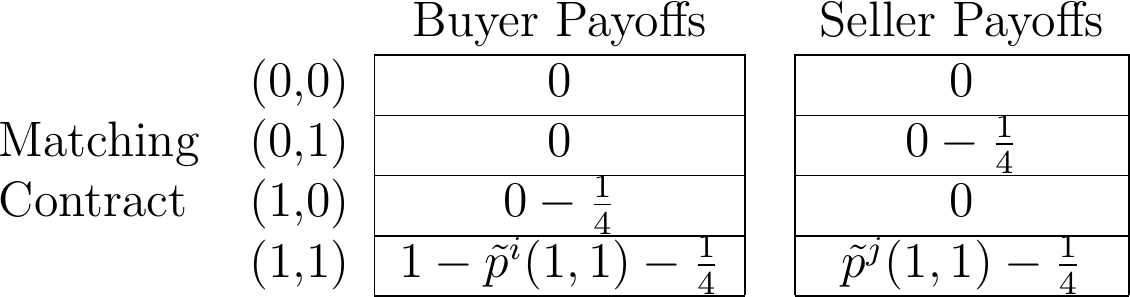
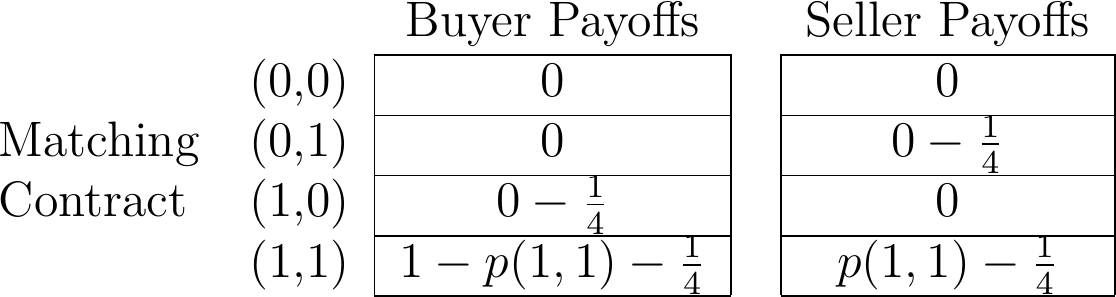
image

diff --git a/docs/slides/OleMiss2019.html b/docs/slides/OleMiss2019.html
@@ -302,28 +302,13 @@ Uniqueness Proof
 
 - With trembling hand, each `\(b\)` and `\(s\)` are played `\(\Rightarrow\)` `\(\tilde{p}^i(b,s) = \tilde{p}^j(b,s) = p(b,s)\)`
 
---
 
-- If `\(p(1,1)\)` is low `\((&lt; \frac{3}{4})\)`, no buyers want to choose `\(b=0\)` 
-  - Instead, choose `\(b=1\)` as much as possible: `\(1 - \epsilon^i\)`
-  - Drives `\(p(1,1)\)` up
+- For simplicity, fix price at zero for all besides markets besides `\((1,1)\)`
 
 
 ---
-Example Payoffs
-=====================================
-
-.center[![](https://briancalbrecht.github.io/docs/slides/images/jmp/tikz_G.png)]
-
---
-- Prices and conjectures are endogenous
-
-- Rational conjectures: if a match `\((b,s)\)` is chosen, `\(\tilde{p}^i (b,s) = \tilde{p}^j (b,s)= p(b,s)\)`
-
-- Equilibrium does not require optimization or correct conjectures "off-path" (like Nash)
-
-???
-We need to find conjectures and prices
+background-image: url(https://briancalbrecht.github.io/docs/slides/images/jmp/tikz_H.png)
+background-size: contain
 
 ---
 Uniqueness Proof
@@ -331,7 +316,6 @@ Uniqueness Proof
 
 - With trembling hand, each `\(b\)` and `\(s\)` are played `\(\Rightarrow\)` `\(\tilde{p}^i(b,s) = \tilde{p}^j(b,s) = p(b,s)\)`
 
---
 
 - If `\(p(1,1)\)` is low `\((&lt; \frac{3}{4})\)`, no buyers want to choose `\(b=0\)` 
   - Instead, choose `\(b=1\)` as much as possible: `\(1 - \epsilon^i\)`

diff --git a/docs/slides/tikz_charts/jmp.tex b/docs/slides/tikz_charts/jmp.tex
@@ -301,7 +301,7 @@ $ $
 		& \multicolumn{1}{c|}{(0,0)} & \multicolumn{1}{c|}{$ 0$} & \multicolumn{1}{c|}{} & \multicolumn{1}{c|}{$ 0$} \\ \cline{3-3} \cline{5-5} 
 		Matching & \multicolumn{1}{c|}{(0,1)} & \multicolumn{1}{c|}{$0$} & \multicolumn{1}{c|}{} & \multicolumn{1}{c|}{$0 -\frac{1}{4}$}  \\ \cline{3-3} \cline{5-5} 
 		Contract& \multicolumn{1}{c|}{(1,0)} & \multicolumn{1}{c|}{$ 0 - \frac{1}{4}$} & \multicolumn{1}{c|}{} & \multicolumn{1}{c|}{$ 0$} \\ \cline{3-3} \cline{5-5} 
-		& \multicolumn{1}{c|}{(1,1)} & \multicolumn{1}{c|}{$ 1- \tilde{p}^i(1,1) - \frac{1}{4}$} & \multicolumn{1}{c|}{} & \multicolumn{1}{c|}{$ \tilde{p}^j(1,1)- \frac{1}{4}$} \\ \cline{3-3} \cline{5-5} 
+		& \multicolumn{1}{c|}{(1,1)} & \multicolumn{1}{c|}{$ 1-p(1,1) - \frac{1}{4}$} & \multicolumn{1}{c|}{} & \multicolumn{1}{c|}{$ p(1,1)- \frac{1}{4}$} \\ \cline{3-3} \cline{5-5} 
 	\end{tabular}
 \end{table}
 
